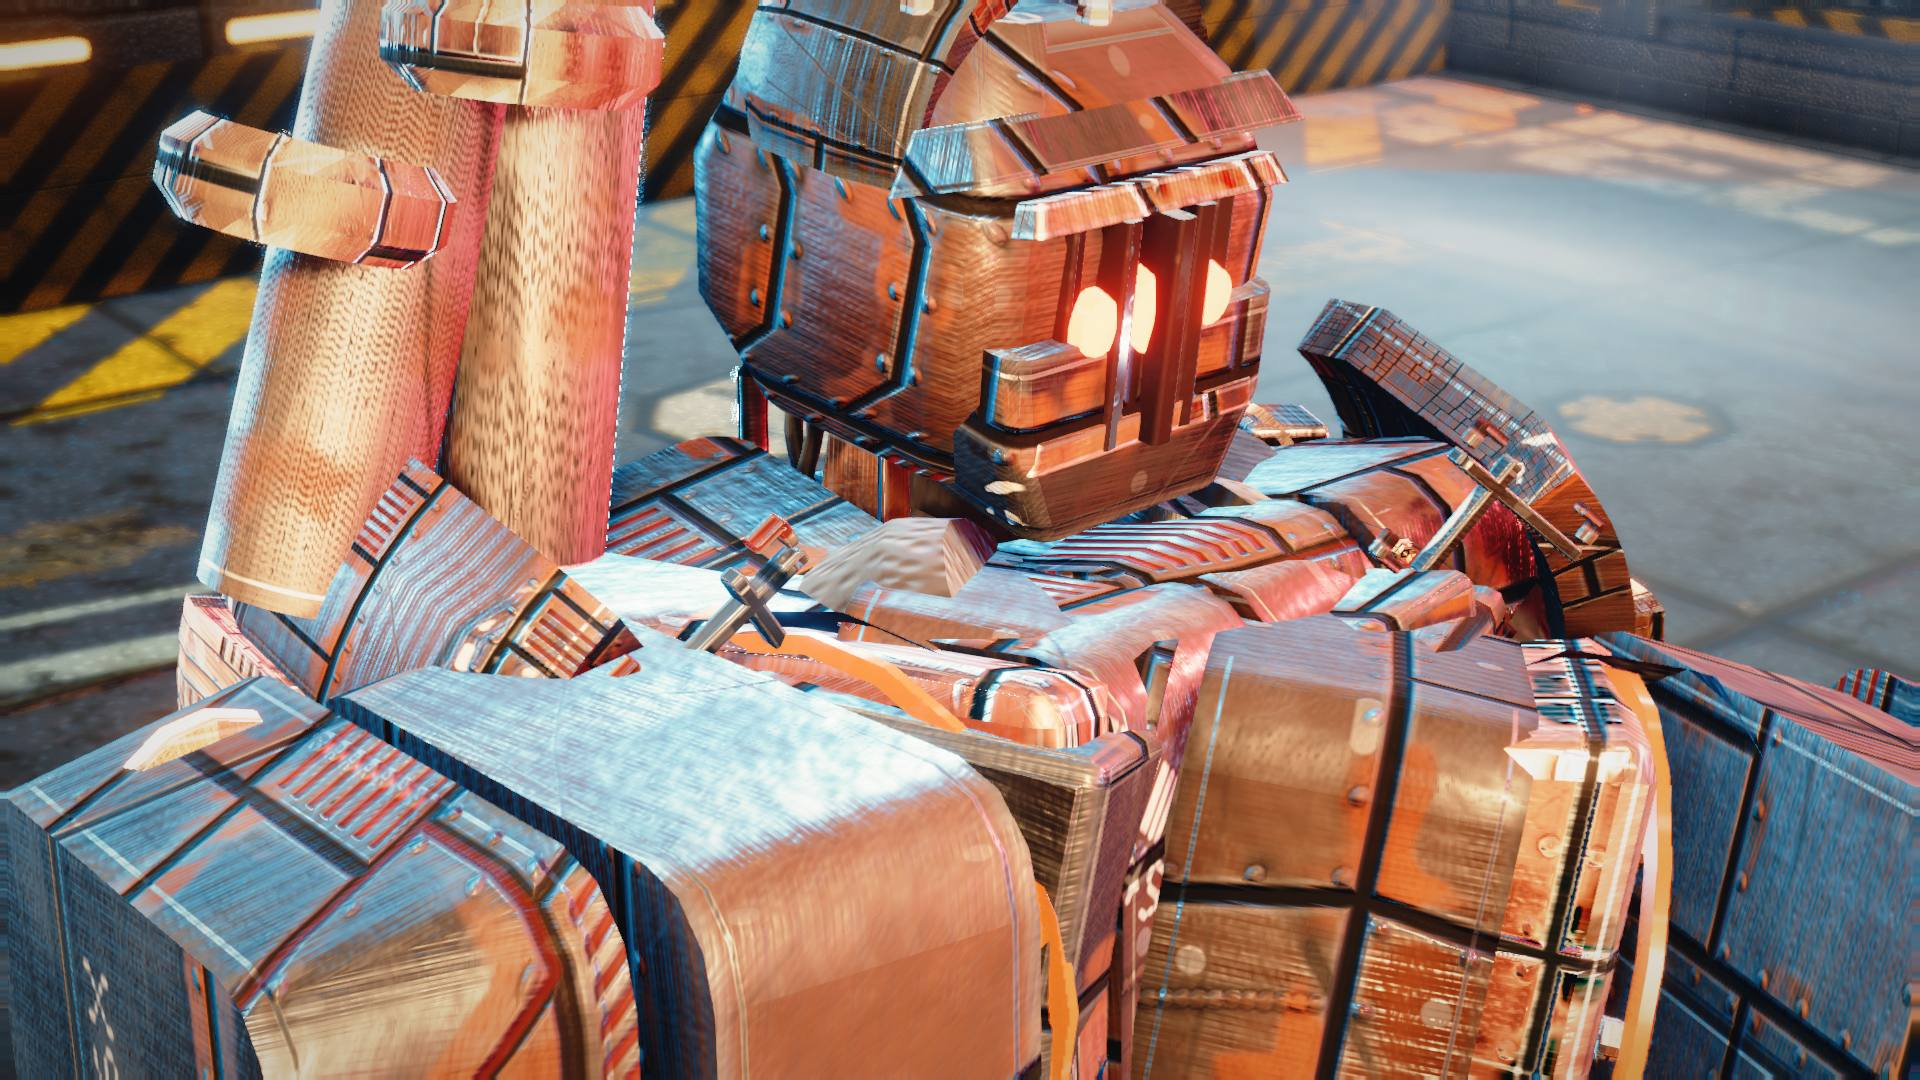
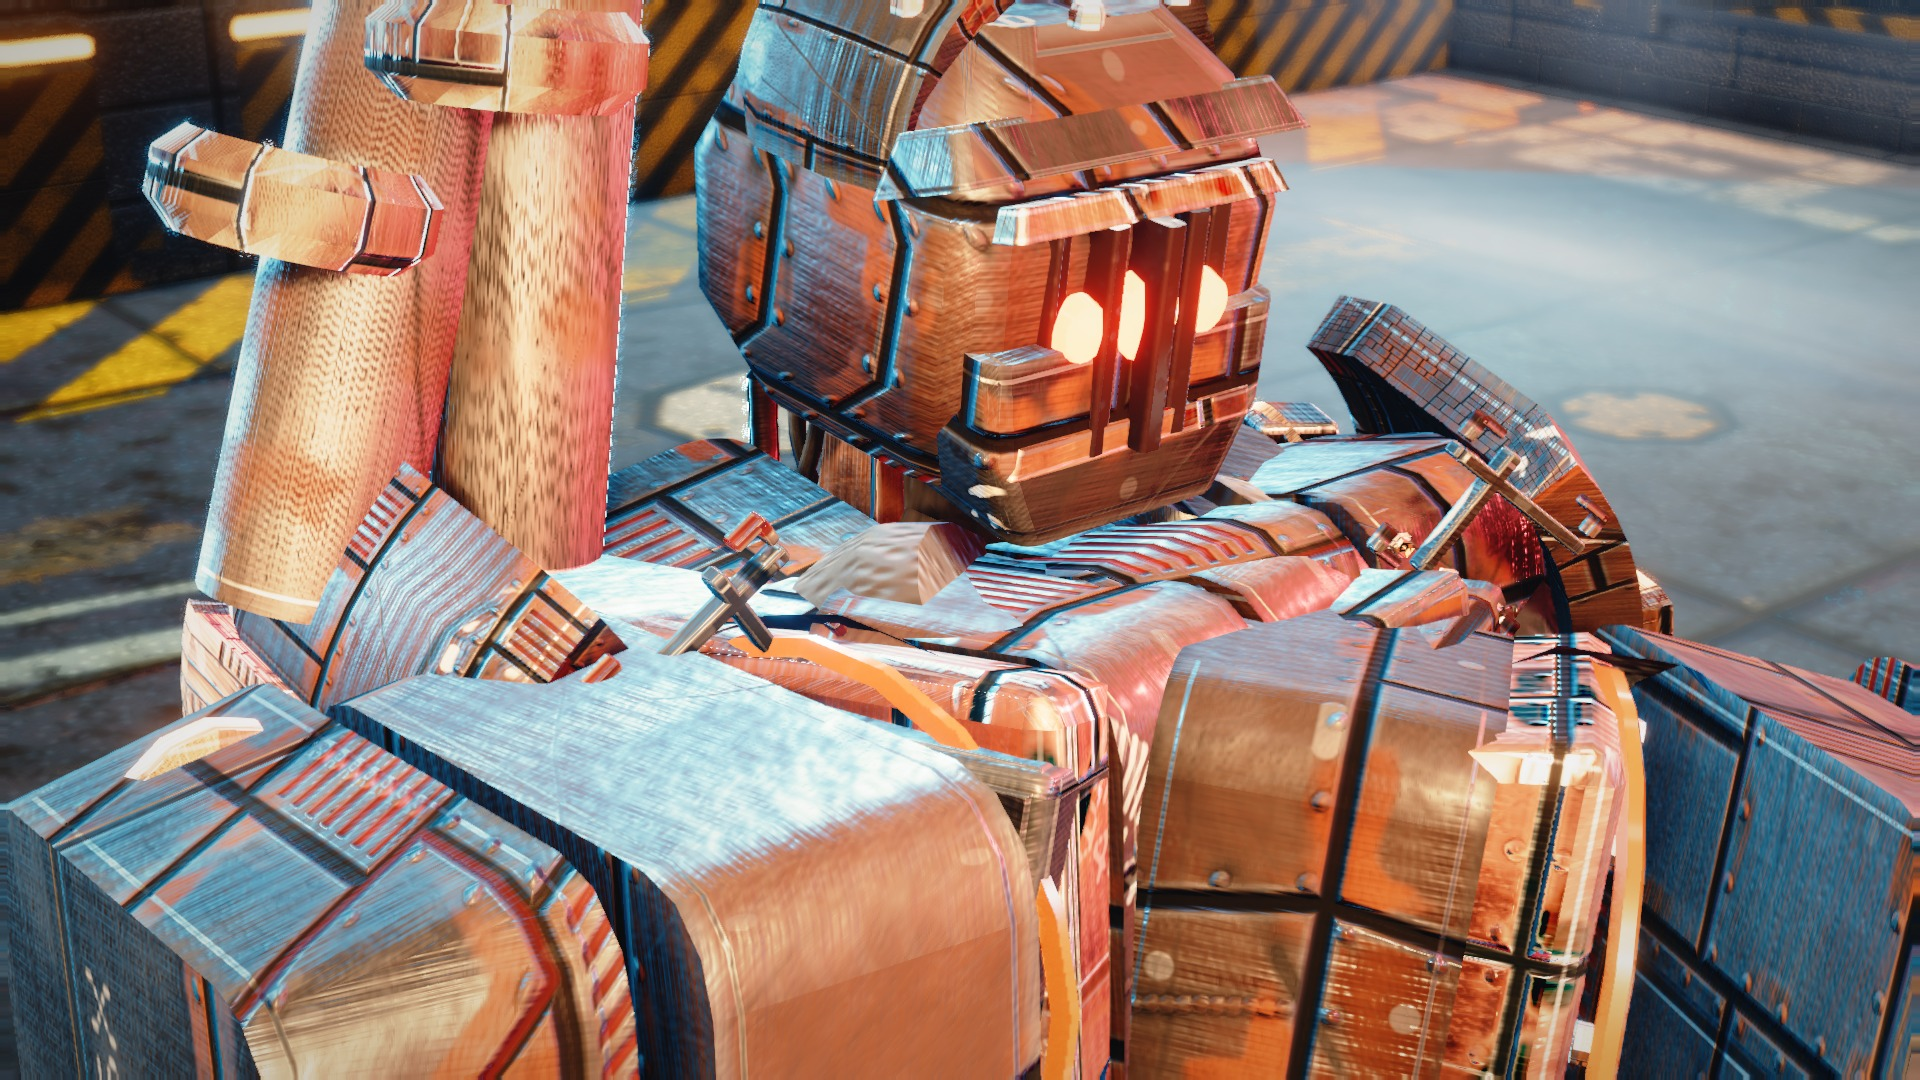
Twenty of twenty-five scored frames were rendered sub-native
Round 29 scored animation 67->66, impact 66->67, character 69->69, stage 73->73.
Flat. The findings are not, and two of them are mine.

CORRECTION FIRST. I committed round 29's fix work saying "the critics never ran",
because the workflow output file was 0 bytes when I looked. It filled later. All
four critics ran and scored; those are their numbers above. I asserted a negative
from one observation of a file still being written -- the same single-sample error
this project keeps paying for, this time about my own tooling.

THE EVIDENCE INSTRUMENT WAS DEGRADED TO PROTECT THE PERF INSTRUMENT. Per-shot
render scale across a full pass: eight distinct values from 0.72 to 1.00, adaptive
live on 17 of 18 shots, 03-full-body at 1555x874 and 19-cistern-wide at 1382x777 --
all written out as 1920x1080 by the viewport screenshot and scored against
native-1080p references. Set by machine frame timing, so not reproducible between
runs of the same build. Three critics found it independently.

The cause was my round-26 change making the pinTicks teardown hand renderer
settings back, to stop one frozen shot corrupting the fps probe. It fixed the perf
instrument and silently broke the evidence instrument for every other shot, with
nothing gating the second. Now pinned native with the controller off before EVERY
shot -- re-asserted per shot, because a tier change or a teardown lapses a single
startup pin -- and the perf probe re-pins to the tier scale, so each instrument
[…]

diff --git a/docs/PROFILING.md b/docs/PROFILING.md
@@ -1425,3 +1425,99 @@ before every animation edit this round, so judging on it would have judged round
 the manifest cannot catch this: `complete` validates the list against *itself*, so a shot that was
 never registered can never be reported missing. That is the round-27 defect in a new dress --
 certification can detect a corrupt present entry, never an absent one.
+
+---
+
+# Round 29: the evidence instrument had been degraded to protect the perf instrument
+
+Animation 67 -> 66, impact 66 -> 67, character 69 -> 69, stage 73 -> 73. Flat. The findings are not.
+
+**First, a correction of mine.** I committed a29's fix work with a message saying "the critics never
+ran" because the workflow's output file was 0 bytes when I looked. It filled later; all four critics
+ran and scored. The scores above are theirs. Nothing was invented, but I asserted a negative from a
+single observation of a file that was still being written -- the same single-sample error this
+project keeps paying for, made about my own tooling.
+
+## Twenty of twenty-five frames were rendered sub-native and scored against native references
+
+Per-shot `res`, measured across a full pass:
+
+```
+distinct renderScales   0.72 0.76 0.77 0.80 0.81 0.84 0.85 1.00     (a 1.39x span)
+adaptive live           17 of 18 shots
+03-full-body            renderScale 0.81   rendered 1555x874
+19-cistern-wide         renderScale 0.72   rendered 1382x777
+```
+
+Every one written to disk as 1920x1080 by the viewport screenshot, then scored against native-1080p
+Tekken references. And because the adaptive controller was live, the scale was set by whatever the
+machine's frame timing happened to be -- so it is not reproducible between two runs of the same
+build. Three critics found it independently; one had two of its three assigned shots at 58-66% of
+the pixels they claimed.
+
+**The cause was mine, in round 26.** I made the `pinTicks` teardown hand the renderer settings back,
+because one frozen shot was leaving the whole run at native and corrupting the end-of-run fps probe.
+That fixed the perf instrument and silently degraded the evidence instrument for every other shot.
+It is the same shape as five other findings here: **a change that protects one measurement while
+quietly breaking another, with nothing gating the second.**
+
+Fixed by pinning native with the controller off before every shot, re-asserted per shot rather than
+once at startup because a tier change or a pinTicks teardown silently lapses a single pin. The perf
+probe re-pins to the TIER scale afterwards -- the two instruments want different resolutions, and
+each now records which it used.
+
+## The chain metric awarded its maximum to the failure it exists to catch
+
+`peaks[i].c <= peaks[j].c` counted two links peaking on the SAME tick as correctly ordered. So a move
+whose every link peaks simultaneously -- the purest possible pose-to-pose robotic motion, and exactly
+what the metric was built to detect -- scored a perfect 1.00. Verified on jab2 (clip `p.straight`):
+1.00 under the tie rule with all ten pairs tied, 0.00 under a strict one. Across 211 moves, tie rule
+median 0.70 against strict median 0.10. **Essentially the entire round-28 "improvement" lived in the
+tie rule.**
+
+Ties now score nothing and are reported separately as `tiedPairs`, because "0.4 with 60% ties" and
+"0.4 with everything strictly ordered but half backwards" are different animation problems that one
+number cannot distinguish.
+
+Related and also mine to own: round 28's headline "median hips->tip lag 0 -> 4 ticks" does not
+reproduce. The true median over 211 moves is 0, with 150 at or below 0; **4 is near the top of the
+distribution, not the middle.** A maximum was reported as a median. That is the fourth consecutive
+round launched on a figure that did not survive re-derivation.
+
+## The frame archive: two rounds of fixes, neither of which took
+
+Round 28 correctly diagnosed `.gitignore: shots/` matching `docs/shots/` too, and fixed the pattern.
+But the archive was still exported BY HAND afterwards, so by the next round it was certifying
+`baseCommit 7ac3fb2` against frames produced by a commit ninety minutes newer, holding 18 shots where
+the run had 25, and recording every frame as 1920x1080 when they had rendered as low as 1382x778 --
+the same error one level down from the one it was created to fix. One critic stated plainly that its
+"no regression" finding was an assumption rather than a measurement, because no before-frame existed
+in git at all.
+
+**A hand-exported archive drifts by construction.** It is now written by the capture run itself, from
+the same frames, with the commit READ (`git rev-parse HEAD`) rather than declared, plus a `dirty`
+flag so a certification can never again name a commit that did not produce the pixels. It records the
+size each frame was RENDERED at, not the size it was written at. Only complete runs archive.
+
+First run of it archived 18 of 25 and the seven it dropped were the per-clip animation strips --
+precisely the new evidence the animation axis is now scored on -- because they are written as JPEG
+and the loop only re-encoded PNGs. Fixed.
+
+## The impact gate was measuring armour
+
+Round 28's gate defined effect ink as `luma > 0.90`. Scored against a per-pixel ground truth (the
+same frozen frame rendered with FX visible and hidden):
+
+```
+16-impact-heavy   precision 0.375   recall 0.191
+04-impact         precision 0.261   recall 0.151
+04b-impact-decay  precision 0.045   recall 0.043
+15-impact-light   precision 0.019   recall 0.077
+```
+
+Five pixels in eight it counted were not effect, and it missed four fifths of what was. The mask was
+landing on Kestrel's near-white armour plates, panel-edge speculars, the damage badge and the ring
+decal. Round 27's number did not reproduce; round 28's reproduces exactly and measures the wrong
+object, which is worse. Every figure this axis carried is withdrawn -- including the deltas that
+justified reverting the round-28 particle work, which sit an order of magnitude inside the
+run-to-run spread.
